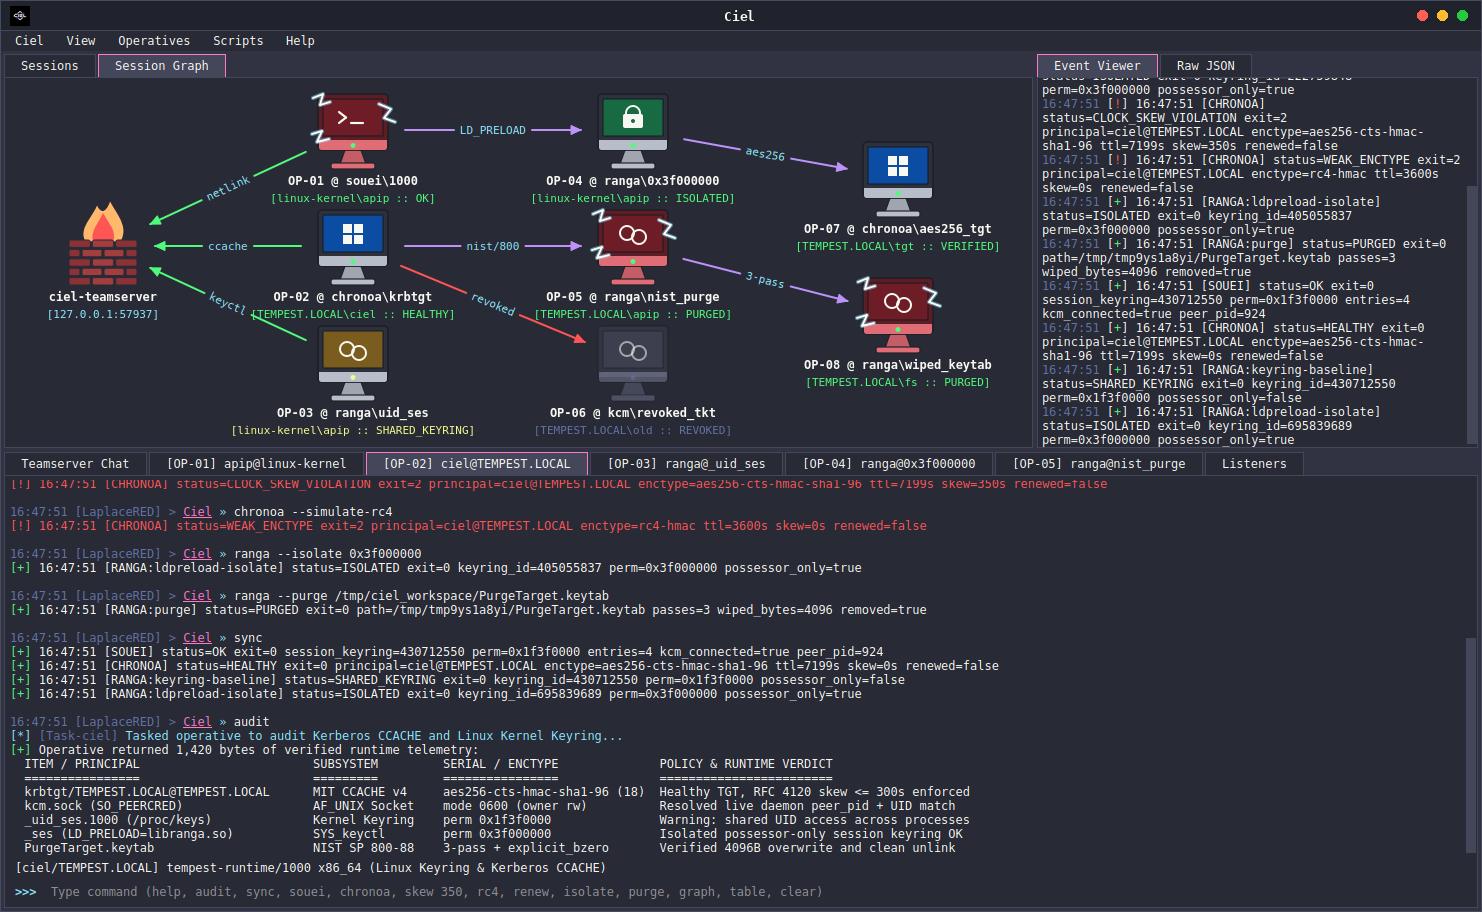
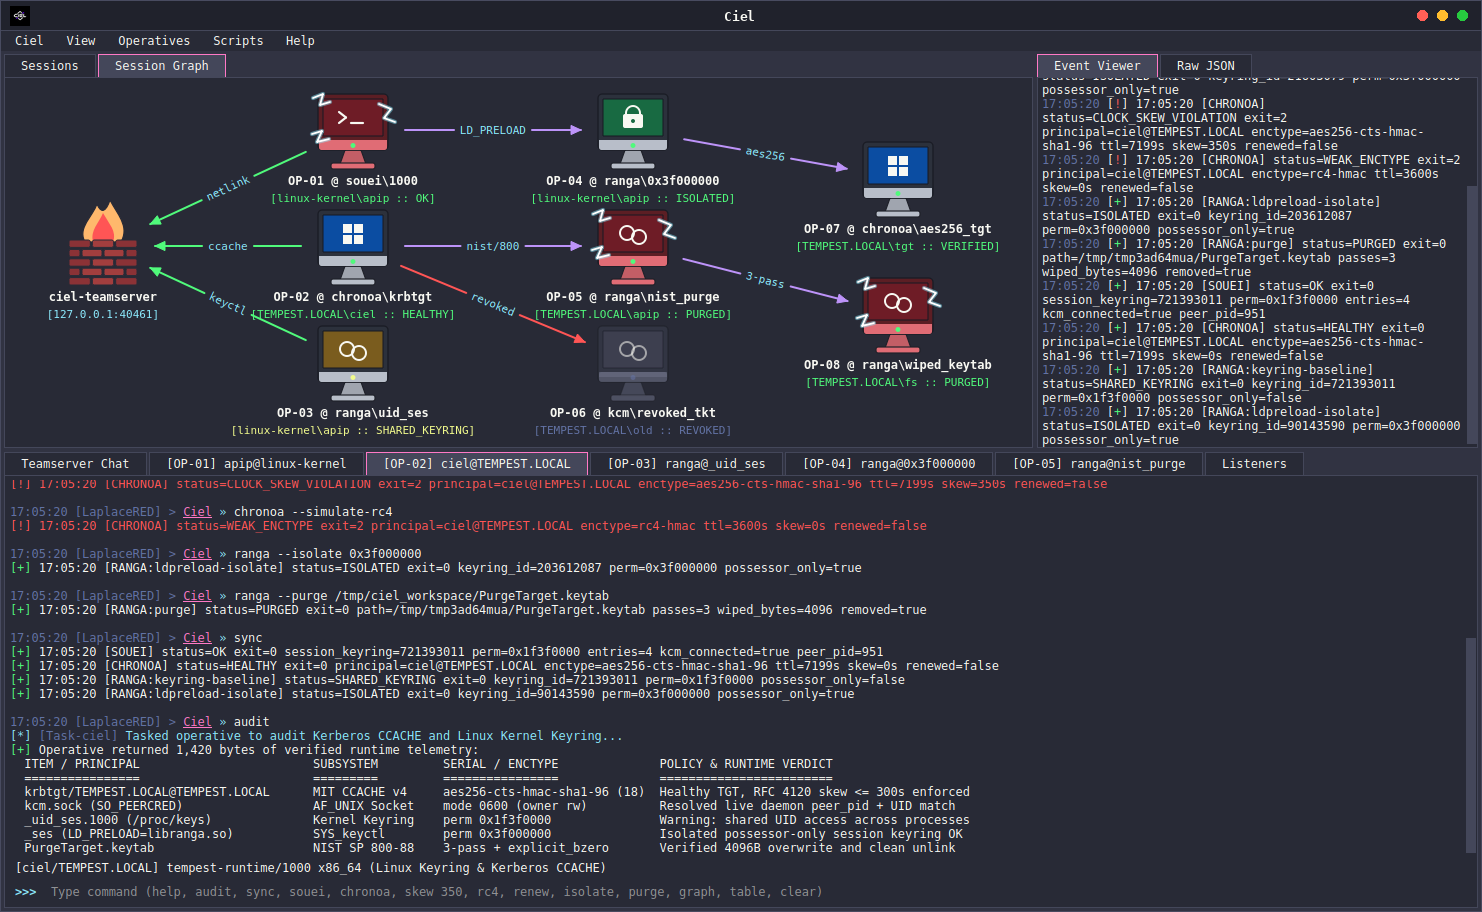
feat(install): auto-bootstrap Tempest and Tanuki during Ciel build and install

diff --git a/tests/test_ciel.py b/tests/test_ciel.py
@@ -15,7 +15,7 @@ BIN = ROOT / "bin"
 ASSETS = ROOT / "assets"
 TEAMSERVER = str(BIN / "ciel-teamserver")
 CLIENT = str(BIN / "ciel-client")
-TEMPEST_BIN = Path(os.environ.get("TEMPEST_BIN_DIR", str(ROOT.parent / "tempest" / "bin")))
+TEMPEST_BIN = Path(os.environ.get("TEMPEST_BIN_DIR", str(BIN)))
 
 
 def load_ui_font(size=14):
@@ -124,10 +124,14 @@ def wait_for_server(host, port, proc, deadline=8.0):
 
 
 def main():
-    for name in ("souei", "chronoa", "ranga", "libranga.so"):
-        assert (TEMPEST_BIN / name).exists(), f"Missing Tempest binary: {TEMPEST_BIN / name}"
+    for name in ("souei", "chronoa", "ranga", "libranga.so", "tanuki"):
+        assert (TEMPEST_BIN / name).exists(), f"Missing bundled operative: {TEMPEST_BIN / name}"
     assert Path(TEAMSERVER).exists(), f"Missing {TEAMSERVER}"
     assert Path(CLIENT).exists(), f"Missing {CLIENT}"
+
+    tanuki_help = subprocess.run([str(BIN / "tanuki"), "--help"], stdout=subprocess.PIPE, stderr=subprocess.PIPE, text=True, timeout=10)
+    assert tanuki_help.returncode == 0, f"bundled tanuki --help failed: {tanuki_help.stderr}"
+    print("[PASS] bundled tanuki CLI (--help)")
 
     port = pick_free_port()
     addr = f"127.0.0.1:{port}"
@@ -140,7 +144,7 @@ def main():
 
     with tempfile.TemporaryDirectory() as work_dir:
         srv = subprocess.Popen(
-            [TEAMSERVER, "--addr", addr, "--tempest-dir", str(TEMPEST_BIN), "--work-dir", work_dir],
+            [TEAMSERVER, "--addr", addr, "--work-dir", work_dir],
             stdout=subprocess.PIPE,
             stderr=subprocess.PIPE,
             text=True,
@@ -150,7 +154,8 @@ def main():
 
             r_ping = rpc_call("127.0.0.1", port, {"action": "ping"})
             assert r_ping["ok"] is True and r_ping["status"] == "READY", r_ping
-            print("[PASS] teamserver ping")
+            assert r_ping["data"]["binaries_present"]["tanuki"] is True, r_ping
+            print("[PASS] teamserver ping (bundled Tempest + Tanuki ready)")
 
             r_sync = rpc_call("127.0.0.1", port, {"action": "full_sync"})
             assert r_sync["ok"] is True and len(r_sync["rows"]) == 4, r_sync

diff --git a/teamserver/main.go b/teamserver/main.go
@@ -500,7 +500,7 @@ func (s *Server) handleRequest(req Request) Response {
 	switch req.Action {
 	case "ping":
 		bins := []string{"souei", "chronoa", "ranga", "libranga.so"}
-		present := make(map[string]bool, len(bins))
+		present := make(map[string]bool, len(bins)+1)
 		allReady := true
 		for _, b := range bins {
 			_, err := os.Stat(filepath.Join(s.tempestDir, b))
@@ -510,6 +510,15 @@ func (s *Server) handleRequest(req Request) Response {
 				allReady = false
 			}
 		}
+		tanukiOK := false
+		for _, dir := range []string{s.tempestDir, filepath.Dir(s.selfExe)} {
+			if _, err := os.Stat(filepath.Join(dir, "tanuki")); err == nil {
+				tanukiOK = true
+				break
+			}
+		}
+		present["tanuki"] = tanukiOK
+
 		resp.OK = allReady
 		resp.Status = "READY"
 		if !allReady {
@@ -663,14 +672,21 @@ func main() {
 	}
 
 	resolvedTempestDir := *tempestDir
-	if absTempest, absErr := filepath.Abs(resolvedTempestDir); absErr == nil {
-		resolvedTempestDir = absTempest
-	}
-	if _, statErr := os.Stat(resolvedTempestDir); os.IsNotExist(statErr) && os.Getenv("TEMPEST_BIN_DIR") == "" {
-		exeSibling := filepath.Clean(filepath.Join(filepath.Dir(selfExe), "..", "..", "tempest", "bin"))
-		if _, sibErr := os.Stat(exeSibling); sibErr == nil {
-			resolvedTempestDir = exeSibling
+	if os.Getenv("TEMPEST_BIN_DIR") == "" && resolvedTempestDir == defaultDir {
+		exeDir := filepath.Dir(selfExe)
+		if _, exeErr := os.Stat(filepath.Join(exeDir, "souei")); exeErr == nil {
+			resolvedTempestDir = exeDir
+		} else if absTempest, absErr := filepath.Abs(resolvedTempestDir); absErr == nil {
+			resolvedTempestDir = absTempest
 		}
+		if _, statErr := os.Stat(resolvedTempestDir); os.IsNotExist(statErr) {
+			exeSibling := filepath.Clean(filepath.Join(exeDir, "..", "..", "tempest", "bin"))
+			if _, sibErr := os.Stat(exeSibling); sibErr == nil {
+				resolvedTempestDir = exeSibling
+			}
+		}
+	} else if absTempest, absErr := filepath.Abs(resolvedTempestDir); absErr == nil {
+		resolvedTempestDir = absTempest
 	}
 
 	srv := &Server{

diff --git a/docs/USAGE.md b/docs/USAGE.md
@@ -1,31 +1,48 @@
-# Building and Running
+# Building, Installing, and Running
 
-## Prerequisites
+## Automatic All-in-One Install (Ciel + Tempest + Tanuki)
 
-1. Build [Tempest](https://github.com/Mafifrizi/tempest) alongside Ciel at ../tempest so the compiled binaries live in ../tempest/bin (or point TEMPEST_BIN_DIR to your Tempest bin directory).
-2. Install the Linux / WSL2 toolchain packages:
+Running the bootstrap script inside a cloned Ciel repository automatically checks toolchain prerequisites, clones and compiles [Tempest](https://github.com/Mafifrizi/tempest), clones [Tanuki](https://github.com/Mafifrizi/tanuki), builds Ciel, and installs all executables into bin/ and ~/.local/bin:
 
-    sudo apt-get update && sudo apt-get install -y golang-go qt6-base-dev cmake pkg-config fonts-dejavu-core python3-pil
+    git clone https://github.com/Mafifrizi/ciel.git
+    cd ciel
+    chmod +x install.sh
+    ./install.sh
 
-## Compile and Verify
+If ~/.local/bin is not yet on your PATH, add it in your shell profile:
 
-Run the strict -Wall -Wextra -Werror build and full RPC + headless Qt6 test suite from the repository root:
+    export PATH="$HOME/.local/bin:$PATH"
+
+## Manual Makefile Targets
+
+1. Build Ciel and bundle Tempest operatives (souei, chronoa, ranga, libranga.so) plus tanuki launcher into bin/:
 
     make clean && make
+
+2. Install all binaries (ciel-teamserver, ciel-client, souei, chronoa, ranga, libranga.so, tanuki) into PREFIX/bin (defaults to ~/.local/bin):
+
+    make install
+
+3. Override sibling repository directories if Tempest or Tanuki live in custom locations:
+
+    make TEMPEST_DIR=/custom/tempest TANUKI_DIR=/custom/tanuki install
+
+4. Run the full RPC, bundled operative, and Qt6 desktop self-test suite:
+
     make test
 
 ## Start a Live Session
 
-Terminal 1 starts the Go teamserver (resolving ../tempest/bin automatically or via TEMPEST_BIN_DIR):
+Terminal 1 starts the Go teamserver (auto-detecting bundled Tempest binaries inside bin/):
 
-    ./bin/ciel-teamserver --addr 127.0.0.1:40056
+    ciel-teamserver --addr 127.0.0.1:40056
 
 Terminal 2 launches the native Qt6 desktop client over X11, Wayland, or WSLg:
 
-    ./bin/ciel-client --addr 127.0.0.1:40056
+    ciel-client --addr 127.0.0.1:40056
 
 ## Headless Self-Test Mode
 
-Run automated end-to-end UI verification and regenerate showcase screenshots without an active display server:
+Run automated end-to-end UI verification without an active display server:
 
     QT_QPA_PLATFORM=offscreen ./bin/ciel-client --addr 127.0.0.1:40056 --self-test --screenshot table.png --graph-screenshot graph.png

diff --git a/README.md b/README.md
@@ -33,6 +33,7 @@ Ciel pairs a compiled C++20 Qt6 desktop client with a zero-dependency Go teamser
 
 ## Features
 
+- Single-command bootstrap (install.sh or make install) that pulls and installs Tempest and Tanuki alongside Ciel
 - Native C++20 Qt6 desktop interface with zero browser wrappers
 - Multi-column identity topology graph with draggable operative and revoked nodes
 - Ten-column session matrix with live Event Viewer and raw telemetry inspection
